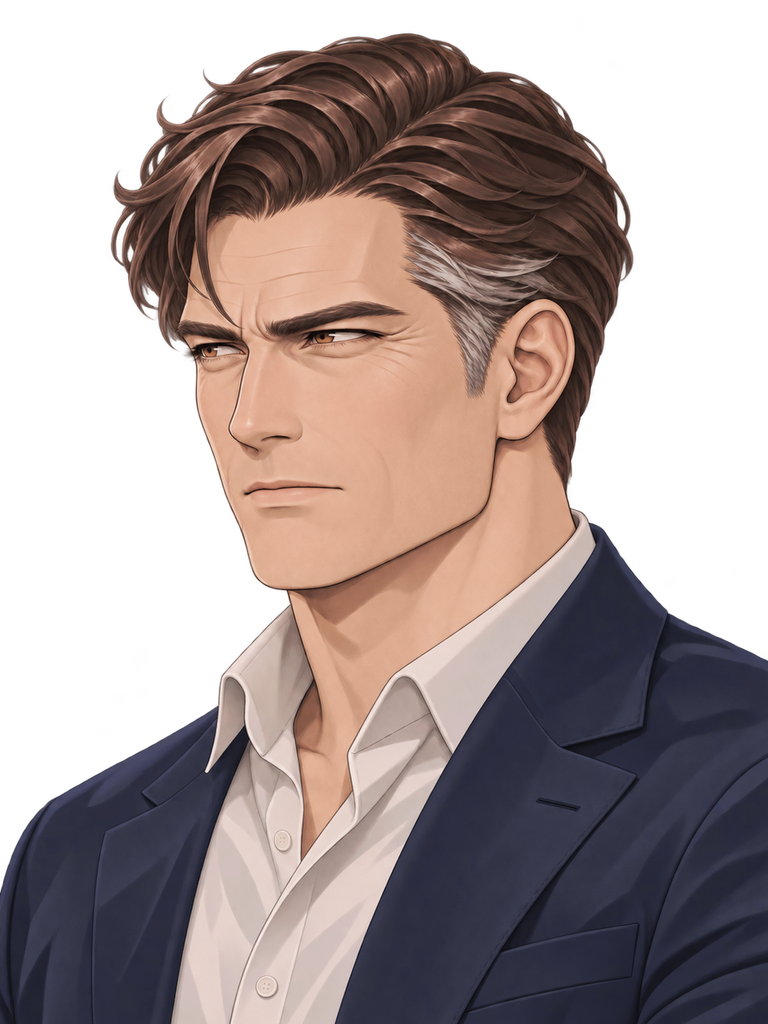
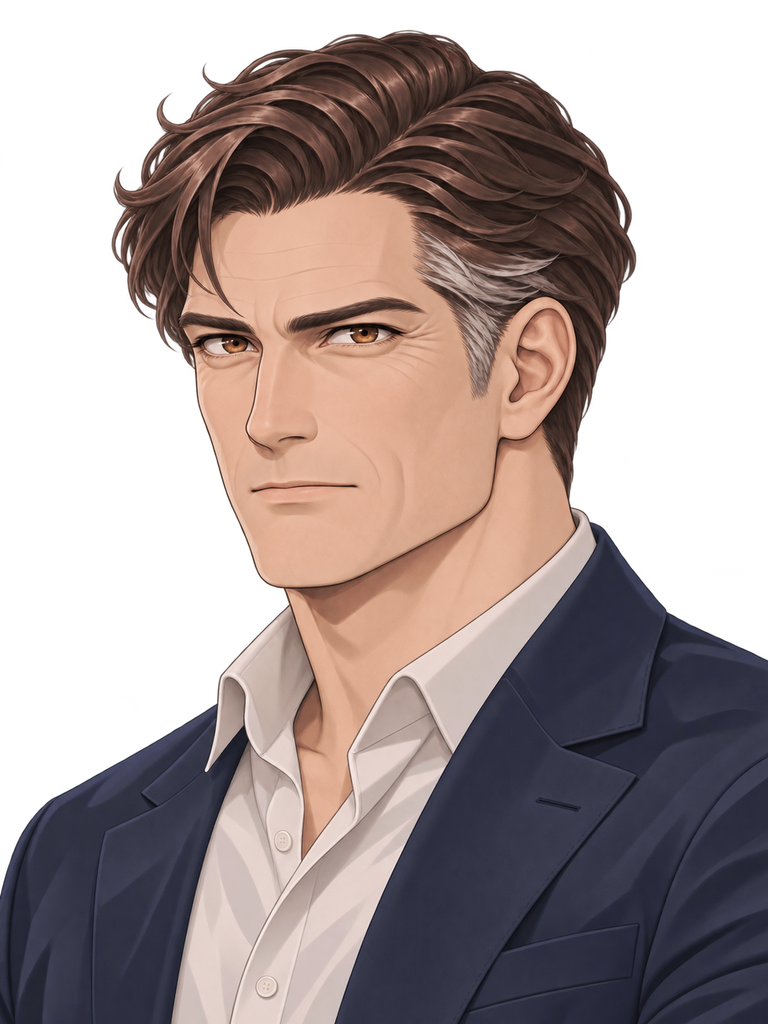
顔アイコンを人物ごとに切り抜き、修正版 13 枚を差し替え（v0.28.1）
Claude-Session: https://claude.ai/code/session_01GPUK2x8bN56A79JNjVJ4b6

diff --git a/src/ui/art.ts b/src/ui/art.ts
@@ -11,9 +11,10 @@ import { h } from './dom';
 const cache = new Map<string, string>();
 
 /** 立ち絵の描き方（data/portraits.json）。bust は胸から上の新しい絵 */
-interface PortraitStyle { style?: 'bust'; normal?: string }
+interface FaceBox { x: number; y: number; size: number; w: number; h: number }
+interface PortraitStyle { style?: 'bust'; normal?: string; face?: FaceBox }
 const STYLES = (portraitsJson as unknown as { characters: Record<string, PortraitStyle> }).characters;
-const styleOf = (id: string): PortraitStyle | undefined => STYLES[id];
+const styleOf = (id: string): PortraitStyle | undefined => STYLES[charFolder(id === 'host' ? 'host_observer' : id, heroGender)];
 /** 胸から上の新しい絵の人か */
 export const isBustArt = (id: string): boolean => styleOf(id)?.style === 'bust';
 let heroGender: 'm' | 'f' = 'm';
@@ -35,7 +36,7 @@ export function faceUrl(id: string): string {
   const key = `face:${folder}`;
   let url = cache.get(key);
   if (!url) {
-    // 新しい絵の人は、旧デザインの face.png を使わず、立ち絵の上側を丸く切り取って見せる（CSS の .face.face-bust）
+    // 新しい絵の人は、旧デザインの face.png を使わず、立ち絵を表示に使い、portraits.json の face の箱で顔だけを丸く拡大して見せる（faceCropCss）
     if (isBustArt(id)) url = portraitUrl(id, 'normal');
     url ??= assetUrl(`characters/${folder}/face`) ?? (() => {
       const { pal, gender } = palette(id);
@@ -63,9 +64,17 @@ export function portraitUrl(id: string, expr = 'normal'): string {
   return url;
 }
 
+/** 元の絵の中の正方形（中心 x, y、一辺 size）を、枠いっぱいに出す背景の指定 */
+export function faceCropCss(b: FaceBox): string {
+  const pct = (c: number, full: number) => (full === b.size ? 50 : ((c - b.size / 2) / (full - b.size)) * 100);
+  const r = (n: number) => Math.round(n * 100) / 100;
+  return `background-size:${r((b.w / b.size) * 100)}% auto;background-position:${r(pct(b.x, b.w))}% ${r(pct(b.y, b.h))}%`;
+}
+
 export function face(id: string, cls = ''): HTMLElement {
-  // 新しい絵の人は、立ち絵の頭のあたりを丸い枠に拡大して見せる（画像は加工しない）
-  if (isBustArt(id)) return h('span', { class: `face face-bust ${cls}`, style: `background-image:url("${faceUrl(id)}")`, role: 'img' });
+  // 切り抜きの決まっている人は、顔の部分を丸い枠いっぱいに拡大して見せる（画像は加工しない。枠の大きさに関係なく同じ切り抜き）
+  const box = styleOf(id)?.face;
+  if (box) return h('span', { class: `face face-crop ${cls}`, style: `background-image:url("${faceUrl(id)}");${faceCropCss(box)}`, role: 'img' });
   return h('img', { class: `face ${cls}`, src: faceUrl(id), alt: '', draggable: false });
 }
 

diff --git a/src/style.css b/src/style.css
@@ -1855,5 +1855,5 @@ html[data-ui-assets~="v11/bg/match_sub"] .match.venue-sub { background: linear-g
 
 /* 胸から上の新しい立ち絵（data/portraits.json の bust）。絞らずに絵全体を出し、下端をそろえる。どの表情も同じ寸法・同じ位置 */
 .bust.bust-art { background-size: contain !important; background-position: 50% 100% !important; }
-/* 顔アイコン：立ち絵の上側（頭から肩）を丸く切り取って見せる。画像は加工しない */
-.face.face-bust { display: inline-block; flex: none; background-repeat: no-repeat; background-size: 175% auto; background-position: 50% 8%; }
+/* 顔アイコン：人物ごとの切り抜き（data/portraits.json の face）。大きさと位置は art.ts の faceCropCss が書く */
+.face.face-crop { display: inline-block; flex: none; background-repeat: no-repeat; }

diff --git a/src/main.ts b/src/main.ts
@@ -141,7 +141,7 @@ document.addEventListener('visibilitychange', () => {
     toast(t('update.available'), 'info', 6000);
   });
 });
-if (import.meta.env.VITE_CHANNEL !== 'product') (window as unknown as { __fc?: unknown }).__fc = { G, Input, Sound, sim: { placeIn, placeHome, setPathTo, setRouteTo, gatherAt, seatActor, assignCell, standAll, furnitureOf }, rooms: ROOMS, art: { bust, setBust, face } };
+if (import.meta.env.VITE_CHANNEL !== 'product') (window as unknown as { __fc?: unknown }).__fc = { G, Input, Sound, sim: { placeIn, placeHome, setPathTo, setRouteTo, gatherAt, seatActor, assignCell, standAll, furnitureOf }, rooms: ROOMS, art: { bust, setBust, face, setHeroGender } };
 void boot();
 
 if (!isNative && 'serviceWorker' in navigator) registerSW({ immediate: true });

diff --git a/docs/npc_rename.md b/docs/npc_rename.md
@@ -54,7 +54,9 @@ npc_02_kanzaki レオン／npc_03_kurose ヴィクトリア／npc_04_mido リチ
 
 - 通常絵：同梱の通常絵参照原本（`references/<内部ID>_normal_reference.png`、768×1024 透過）をそのまま `portrait_normal.png` に。レオン・ヨウコ・ヴィクターは修正版 v3、ほか 7 人は最初のリデザインセット。
 - 表情 7 種×11 人＝77 枚（smile、anger、sad、surprise、think、smirk、wary）は同じ名前で置き換え。納品の README と検査表は `docs/assets/characters/redesign_20261128/`。
-- マイク（npc_06_kiryu）の通常絵は白背景の JPEG（1086×1448）しか無いので、透過 PNG が届くまで笑顔を通常として使う（`src/data/portraits.json` の `normal`）。旧デザインの `portrait_normal.png` は残っているが使わない。
+- マイク（npc_06_kiryu）の通常絵は、修正版（2026-11-28、透過 PNG）で置き換え、笑顔での代用は外した。
+- 修正版 13 枚（2026-11-28）：警戒 4 枚（レオン、ヴィクトリア、リチャード、フェリックス）、クロエ 7 表情（顔の周り以外は通常絵と同じ画素）、レオンの驚き、マイクの通常。納品の検査表は ZIP の corrections.csv。
+- 丸い顔アイコン：`portraits.json` の `face`（元の絵の中の中心と一辺）で人物ごとに切り抜く。主人公男女は face.png に対して。確認は `sh scripts/with-preview.sh node scripts/check-faces.cjs [保存先]`。
 - 描き方は `src/data/portraits.json`：`bust` の人は胸から上の絵なので切り抜かずに絵全体を枠の下端に合わせ、顔アイコンは旧 `face.png` を使わず立ち絵の頭のあたりを拡大して丸く見せる（画像は加工しない）。
 - 確認：`sh scripts/with-preview.sh node scripts/check-portraits.cjs [写真の保存先]`（8 表情で枠・絵の位置と大きさが同じ、切り替え前に全表情読み込み済み、顔アイコン）。
 - 歩行（walk）・待機（stand）・着席（sit）の絵は旧デザインのまま（本人の方針：通常絵の確定後に展開）。

diff --git a/docs/status.md b/docs/status.md
@@ -1,11 +1,13 @@
 # FALSE CROWN 開発状況
 
-最終更新：2026-11-28　／　版：0.28.0（開発版）
+最終更新：2026-11-28　／　版：0.28.1（開発版）
 
 - 試遊 URL（開発版・全日程無料解放）: https://shunyamita0804-source.github.io/FALSE-CROWN/
 - 「完成」は、実際に遊べて検証済みのものだけを指します。未実装のものは完成扱いにしません。
 
 ## 0-0. いまの段階（v11：競技の全面改訂）
+
+v0.28.1：丸い顔アイコンを人物ごとに切り抜き（`src/data/portraits.json` の `face`。11 人と主人公男女、目・鼻・口が枠に収まり顔の大きさをそろえた。確認は `scripts/check-faces.cjs`）。修正版 13 枚（警戒 4、クロエ 7、レオンの驚き、マイクの透過通常絵）を差し替え、マイクの笑顔での代用を解除。
 
 v0.28.0：参加者 11 人を新しい名前と新しい立ち絵に（レオン、ヴィクトリア、リチャード、クロエ、マイク、ヨウコ、ヴィクター、エミリー、フェリックス、ロザリー、アルバート）。通常絵と表情 7 種（77 枚）、顔アイコンは立ち絵から表示。内部ID と表示名を分離（`src/data/npc_names.json`、`docs/npc_rename.md`）。旧名を名乗る自己紹介の声は新しい声まで鳴らさない。マイクの通常絵は透過版が届くまで笑顔で代用。歩行・着席の絵は旧デザインのまま。
 
